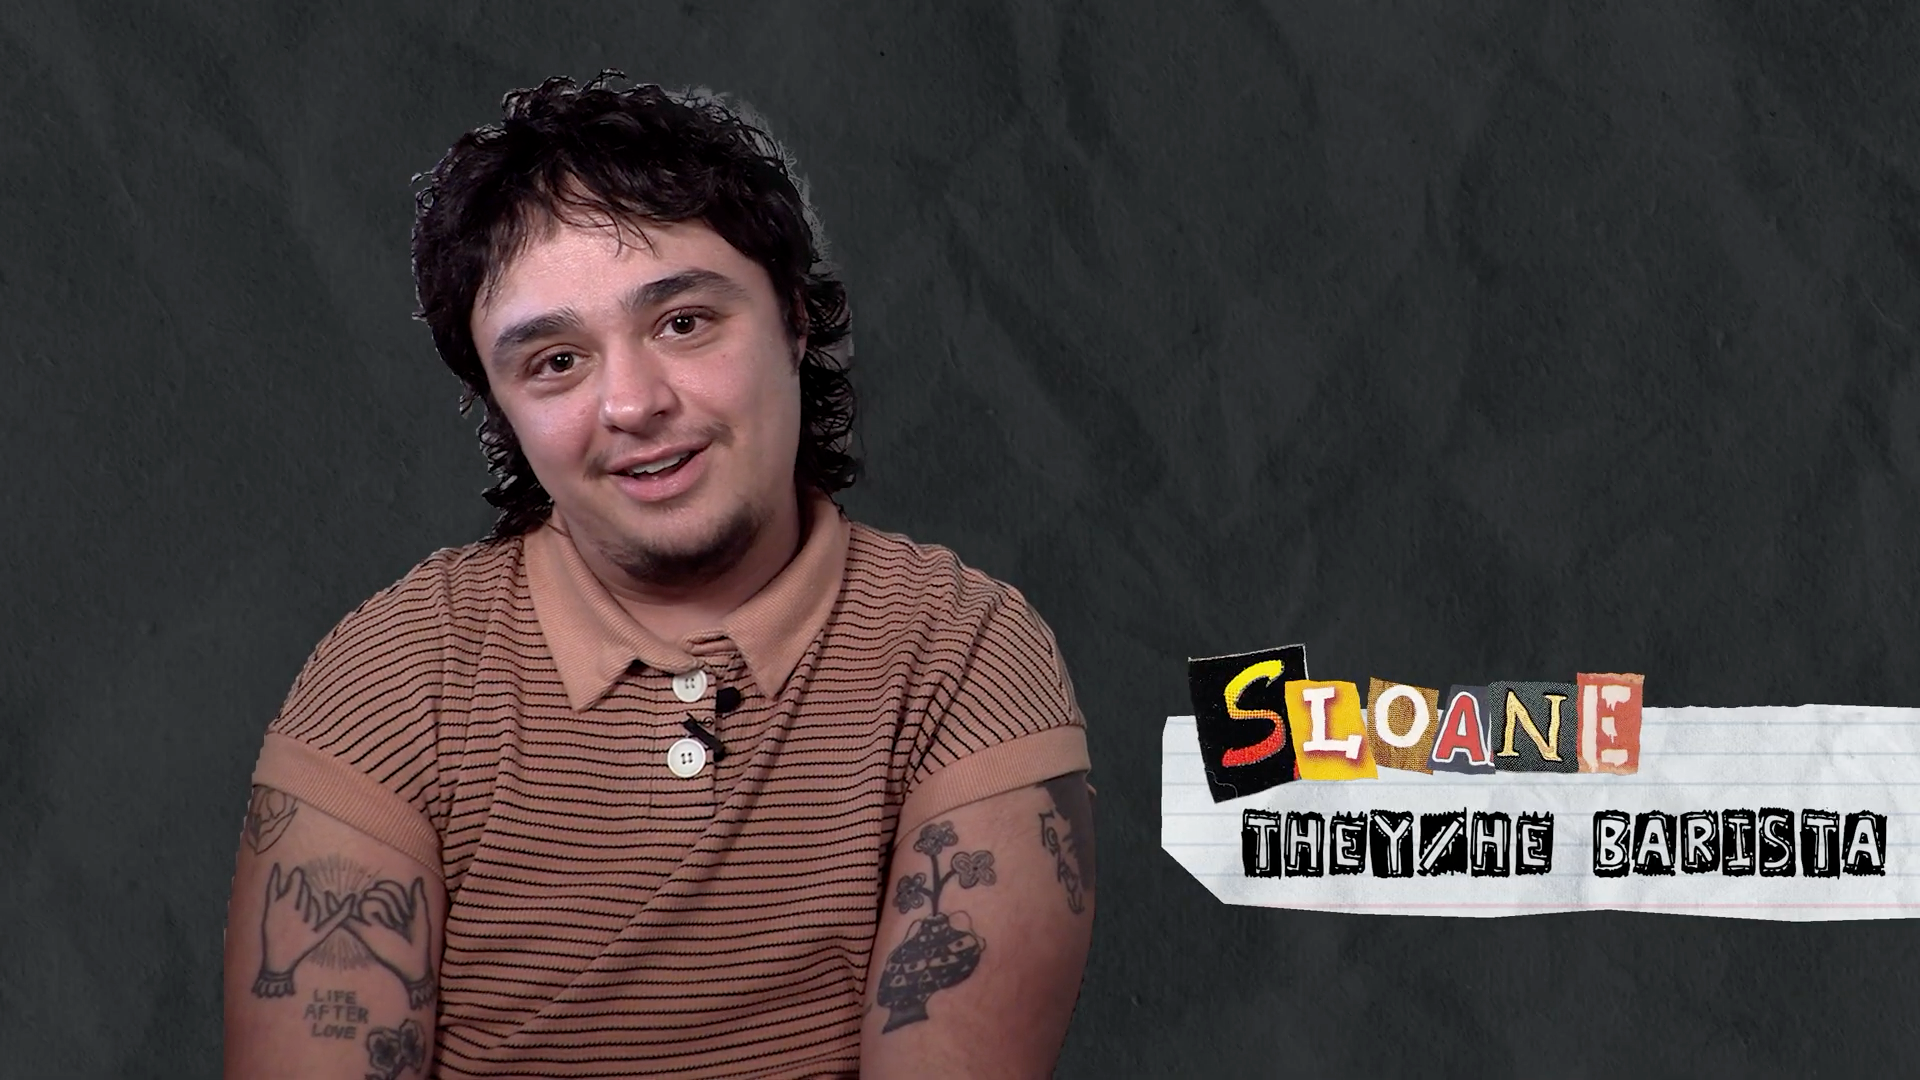
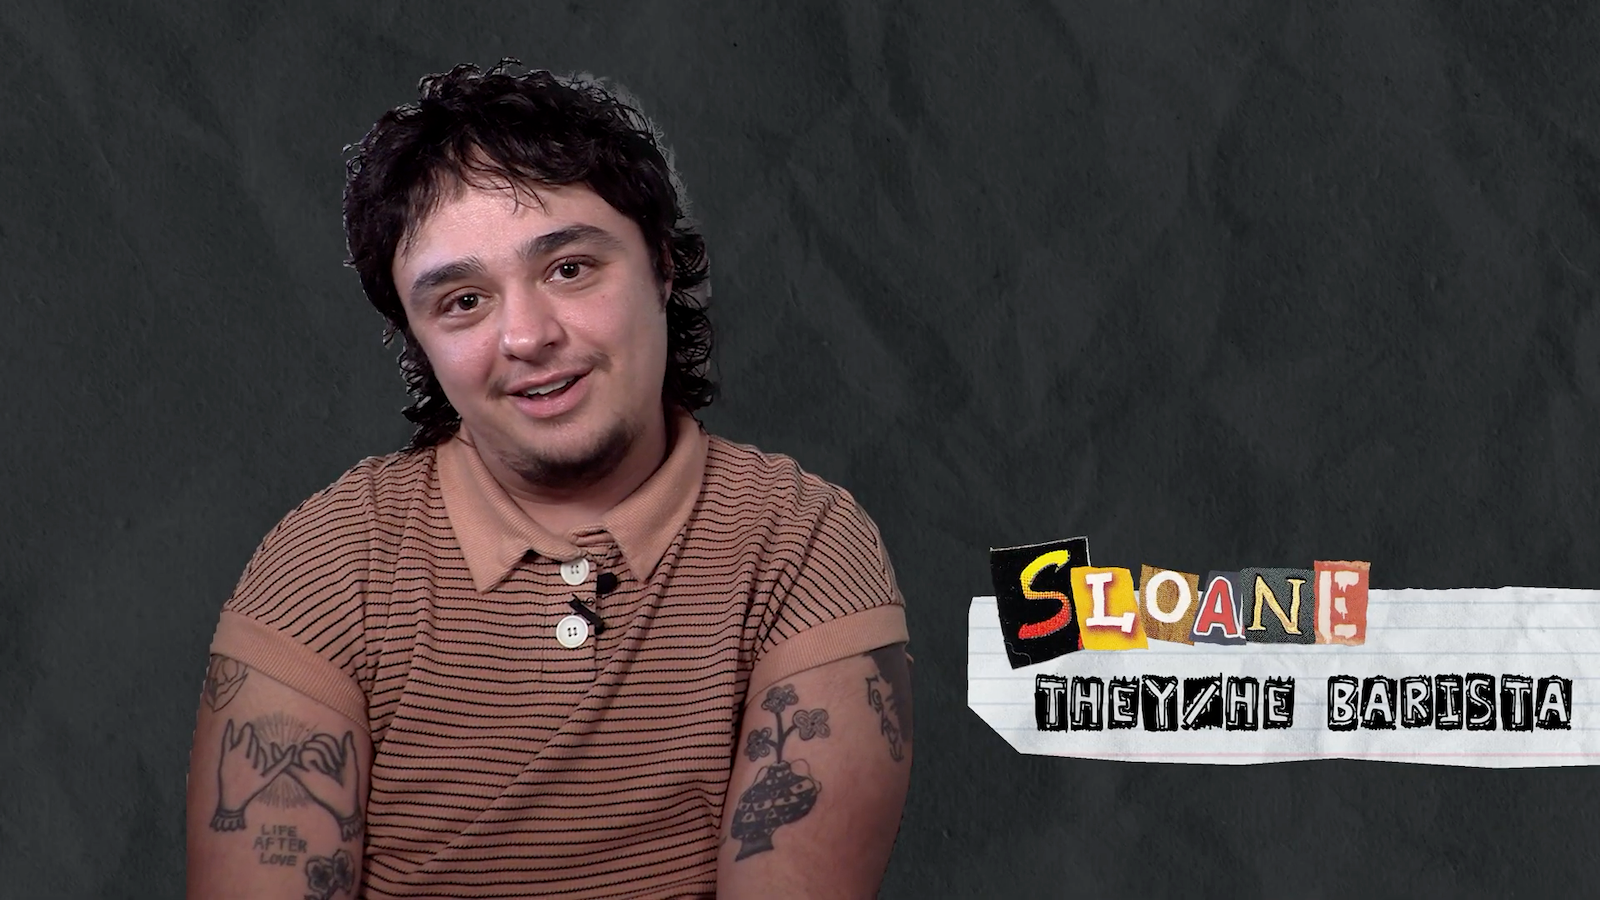
Optimizations

Changed region(s): [[0.8438, 0.7467, 0.9688, 0.8089], [0.6562, 0.7467, 0.7812, 0.8089]]

diff --git a/src/content.config.ts b/src/content.config.ts
@@ -22,8 +22,12 @@ const press = defineCollection({
       outlet: z.string(),
       url: z.url(),
       date: z.date(),
-      image: image().optional(),
-      imageAlt: z.string().optional(),
+      image: z
+        .object({
+          src: image(),
+          alt: z.string(),
+        })
+        .optional(),
     }),
 });
 